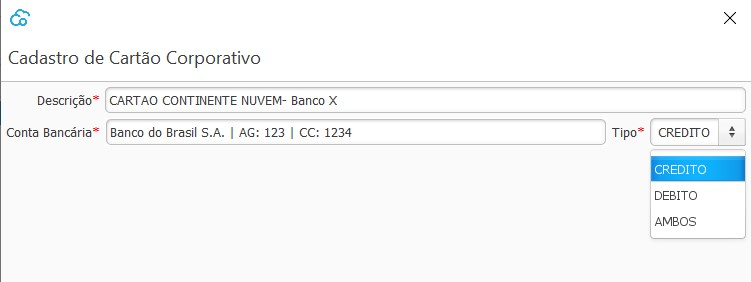
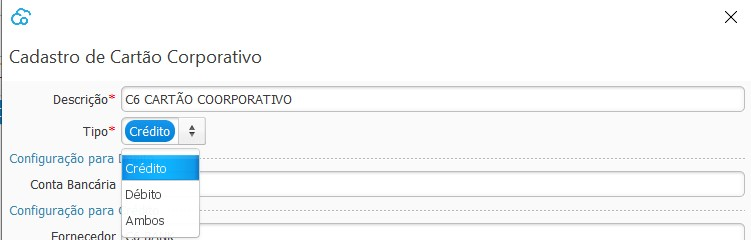
atualizacao_cartao_coorporativo
atualizacao_cartao_coorporativo

diff --git a/docs/financeiro_cartao_corporativo.md b/docs/financeiro_cartao_corporativo.md
@@ -2,11 +2,17 @@
 
 Nesta tela devem ser cadastradas todos os Cartões de Crédito e\ou Débito que a empresa tem e utiliza.
 
-A Conta Bancária utilizada não necessáriamente deve ser vinculada ao cartão, mas deve ser parametrizada a conta bancária que se normalmente faz-se o pagamento da Fatura do Cartão.
-
-Nos casos de Cartão de Débito será a conta bancária de onde ocorrerá os débitos.
-
 ![](images/financeiro_cartao_corporativo.jpg)
+
+
+
+Quando o cartão tiver a opção débito a conta bancária onde será feita a movimentação deverá ser parametrizada.
+
+Quando o cartão tiver a opção crédito um fornecedor deverá ser informado. Esse fornecedor será utilizado para gerar a fatura a após a [conciliação do cartão corporativo](financeiro_pagamento_cartao.md). As data de Vencimento e Fechamento também devem ser informadas, e será com base nestas informações que o sistema irá delimitar o vencimento de cada transação faturada no cartão corporativo.
+
+*Exemplo*: Com base nas configurações abaixo, se uma compra é faturada no dia 1º, o vencimento dessa transação será na fatura que vence no próximo dia 08.  Se uma compra é faturada dia 3 o vencimento dessa transação será na fatura que vence no dia 8 do mês subsequente
+
+![](images/financeiro_cartao_corporativo_debitocredito.jpg)
 
 
 
